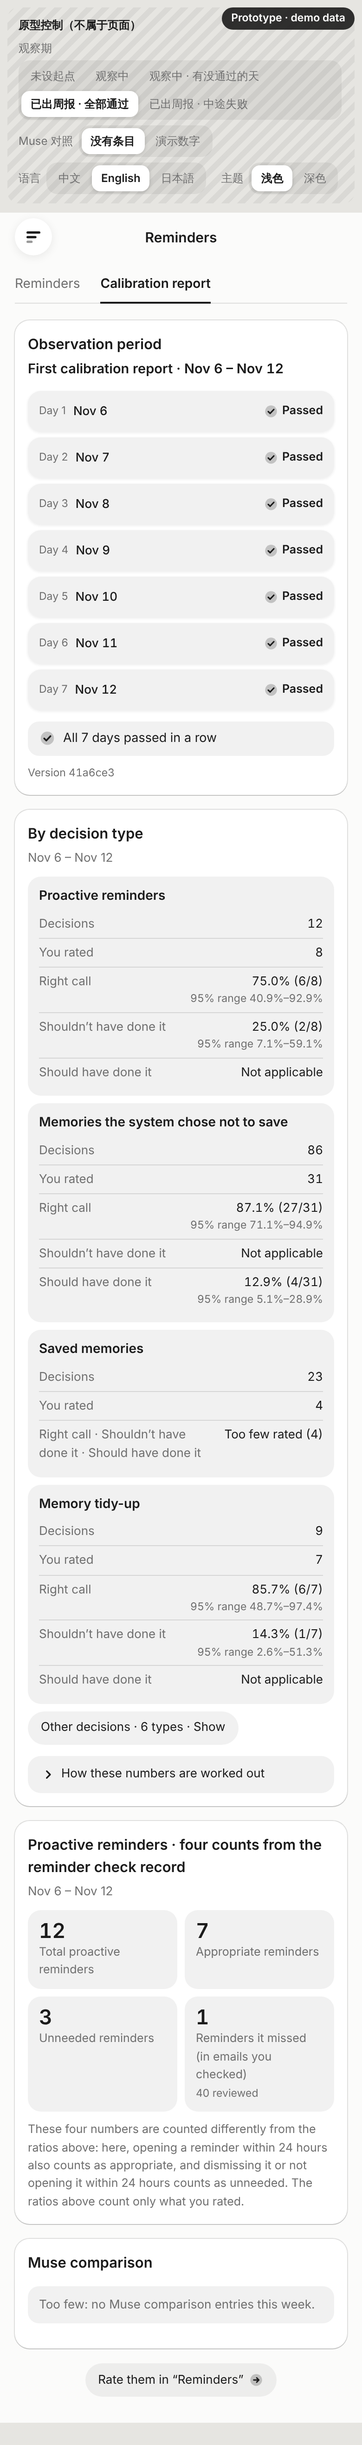
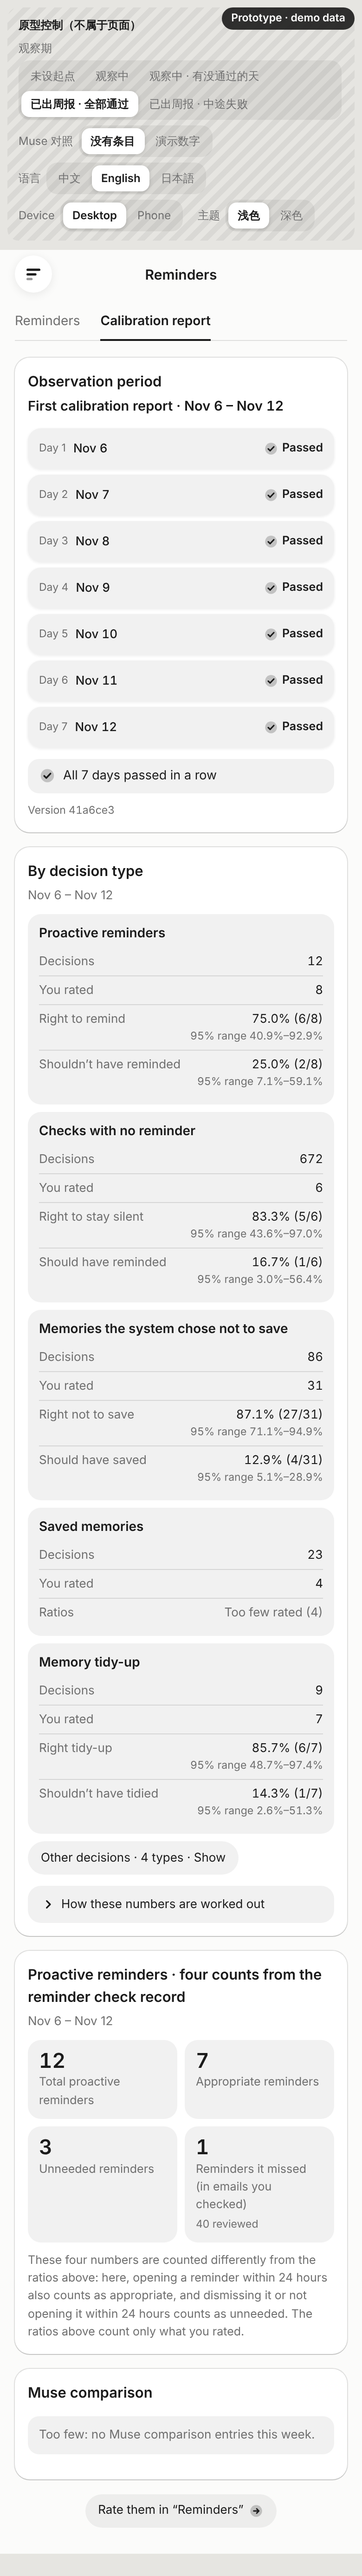
docs(design): 校准周报原型按行命名，加“电脑 / 手机”切换（待 Andy 批准）
原型 v17：每一行用自己的说法并拆出“这次检查没提醒”；其他判断只折叠 4 类决策记录里的类型；
原型控制条加“设备：电脑 / 手机”，手机模式在 390 宽的框里显示卡片布局和底部弹出面板，
不受浏览器窗口宽度影响。390 宽窗口 181 种组合、1280 宽窗口手机模式 150 种组合均无横向溢出；
SHA256SUMS 校验通过。只改原型目录，不含正式网页代码。

Layer-0-tests: none
Fast-mode-checks: 原型自带的 390 宽和手机模式溢出检查，云端容器，基于 c3f4cfd
Docs: deferred (fast mode)

Claude-Session: https://claude.ai/code/session_014uWGaJaVS6Gc3XFFyc94id

diff --git a/docs/assets/control-center/2026-11-03-v17/weekly-report-prototype.html b/docs/assets/control-center/2026-11-03-v17/weekly-report-prototype.html
@@ -90,8 +90,11 @@ td{padding:10px 8px;border-top:1px solid var(--ln);vertical-align:top;font-size:
 th:first-child,td:first-child{padding-left:0}
 td.num,th.num{text-align:right}
 td .iv{display:block;font-size:11.5px;color:var(--mu)}
-td.na{color:var(--mu)}
-td.few{color:var(--mu);text-align:center}
+td.few{color:var(--mu)}
+.rs{display:flex;flex-wrap:wrap;gap:6px 32px}
+.rs .r{min-width:0}
+.rl{color:var(--mu);margin-right:6px}
+td .iv{display:block;font-size:11.5px;color:var(--mu)}
 tr.sub td:first-child{padding-left:14px;color:var(--mu)}
 .otherrow td{padding:8px 0}
 .otherrow .lk{margin-top:2px}
@@ -150,6 +153,7 @@ tr.sub td:first-child{padding-left:14px;color:var(--mu)}
  .tc .m:first-of-type{border-top:0}
  .tc .m>span:first-child{color:var(--mu);min-width:0;flex:1}
  .tc .m>span:last-child{text-align:right;font-variant-numeric:tabular-nums;flex:none}
+ .tc .m.few>span:last-child{color:var(--mu)}
  .tc .m .iv{display:block;font-size:11.5px;color:var(--mu);white-space:nowrap}
  .tc.sub{margin-left:0}
  .stats{grid-template-columns:repeat(2,minmax(0,1fr))}
@@ -160,13 +164,52 @@ tr.sub td:first-child{padding-left:14px;color:var(--mu)}
  .dlg .br{flex-direction:column-reverse}
  .dlg .br button{width:100%}
 }
+#dev.phone{width:410px;max-width:100%;height:864px;margin:0 auto;border:10px solid #0d0d0d;border-radius:48px;position:relative;overflow:hidden;background:var(--bg);box-shadow:0 16px 40px rgba(0,0,0,.22)}
+#dev.phone .screen{height:100%;overflow-y:auto;overflow-x:hidden;scrollbar-width:none;padding-top:10px}
+#dev.phone .screen::-webkit-scrollbar{display:none}
+#dev.phone .scrim,#dev.phone .sheet,#dev.phone .dlg{position:absolute}
+#dev.phone .sheet{max-height:calc(100% - 60px);padding-bottom:18px}
+#dev.phone .dlg{padding-bottom:18px}
+#dev.phone .frame{border-radius:0;box-shadow:none;min-height:0;display:block}
+#dev.phone .side{display:none}
+#dev.phone .main{padding:0 16px 28px}
+#dev.phone .top{display:flex;align-items:center;justify-content:space-between;position:relative;padding:6px 0}
+#dev.phone .rb{width:40px;height:40px;min-height:0;padding:0;border-radius:50%;background:var(--card);display:grid;place-items:center;box-shadow:0 2px 10px rgba(0,0,0,.08)}
+#dev.phone .rb.ghost{visibility:hidden}
+#dev.phone .ttl{position:absolute;left:50%;transform:translateX(-50%);font-size:15px;font-weight:600;white-space:nowrap}
+#dev.phone h1{display:none}
+#dev.phone .tabs{margin-top:6px}
+#dev.phone .card{padding:14px 14px;border-radius:16px}
+#dev.phone .days{grid-template-columns:1fr;gap:6px}
+#dev.phone .cell{flex-direction:row;align-items:center;gap:8px;padding:0 12px;min-height:44px;width:100%}
+#dev.phone .cell .dn{flex:none;white-space:nowrap}
+#dev.phone .cell .dd{flex:1;min-width:0;white-space:nowrap}
+#dev.phone .cell .st{flex:none;max-width:50%;text-align:right}
+#dev.phone .detail{display:none}
+#dev.phone table{display:none}
+#dev.phone .tcards{display:block}
+#dev.phone .tc{background:var(--fill);border-radius:14px;padding:10px 12px;margin:0 0 8px}
+#dev.phone .tc h3{font-size:14px;margin:0 0 4px;font-weight:600}
+#dev.phone .tc .m{display:flex;justify-content:space-between;align-items:flex-start;gap:12px;padding:5px 0;border-top:1px solid var(--ln);font-size:13px}
+#dev.phone .tc .m:first-of-type{border-top:0}
+#dev.phone .tc .m>span:first-child{color:var(--mu);min-width:0;flex:1}
+#dev.phone .tc .m>span:last-child{text-align:right;font-variant-numeric:tabular-nums;flex:none}
+#dev.phone .tc .m.few>span:last-child{color:var(--mu)}
+#dev.phone .tc .m .iv{display:block;font-size:11.5px;color:var(--mu);white-space:nowrap}
+#dev.phone .tc.sub{margin-left:0}
+#dev.phone .stats{grid-template-columns:repeat(2,minmax(0,1fr))}
+#dev.phone .muse{grid-template-columns:repeat(2,minmax(0,1fr))}
+#dev.phone .stepper output{min-width:8.5em;font-size:16px}
+#dev.phone .dlg{left:0;right:0;top:auto;bottom:0;transform:none;width:auto;border-radius:26px 26px 0 0;padding:10px 16px calc(18px + env(safe-area-inset-bottom,0px))}
+#dev.phone .dlg .grab{display:block}
+#dev.phone .dlg .br{flex-direction:column-reverse}
+#dev.phone .dlg .br button{width:100%}
 </style>
 </head>
 <body>
 <div class="banner" id="banner">原型 · 演示数据</div>
 <div class="proto" id="proto"></div>
-<div class="frame" id="frame"></div>
-<div id="overlay"></div>
+<div id="dev"><div class="screen" id="screen"><div class="frame" id="frame"></div></div><div id="overlay"></div></div>
 <script>
 const G={
 check:'<svg class="ic" viewBox="0 0 24 24" aria-hidden="true"><circle cx="12" cy="12" r="9.5" fill="currentColor" opacity=".22"/><path d="M7.5 12.3l3 3 6-6.3" fill="none" stroke="currentColor" stroke-width="2.4" stroke-linecap="round" stroke-linejoin="round"/></svg>',
@@ -221,13 +264,14 @@ zh:{
  scopeDone:(a,b)=>`${a} – ${b}`,scopeIn:s=>`${s}至今`,
  notFull:"观察期还没满 7 天，满了再算比例",
  notStarted:"设好数据起点、观察满 7 天后，这里按决策类型算比例。",
- cols:["决策类型","决策条数","你评过的条数","做对了的比例","不该做的比例","该做没做的比例"],
+ cols:["决策类型","决策条数","你评过的条数","比例"],
+ rl:{pushed:["提醒得对","不该提醒"],silent:["不提醒是对的","该提醒没提醒"],skippedMemory:["不存是对的","该存没存"],keptMemory:["存对了","不该存"],consolidation:["整理得对","不该整理"]},
  ratio:(p,k,n)=>`${p}（${k}/${n}）`,iv:(a,b)=>`区间 ${a}–${b}`,
- few:n=>`样本不足（${n} 条）`,na:"不适用",
+ few:n=>`样本不足（${n} 条）`,
  other:n=>`其他判断 · ${n} 类`,expand:"展开",collapse:"收起",
  how:"这些数字怎么算",
- howItems:["分母是你评过的条数。","比例只代表你评过的那部分，不代表全部决策。","评过的少于 5 条时不算比例，写“样本不足”。","区间是 95% Wilson 区间：按你评过的条数算出的范围，真实比例有 95% 的把握落在里面；评得越多，区间越窄。","某类决策没有这个选项时写“不适用”，例如系统主动提醒只能评“做对了”或“不该做”。"],
- types:{pushed:"系统主动提醒",skippedMemory:"系统没存下的记忆",keptMemory:"已存的记忆",consolidation:"整理记忆",mail:"没提醒的邮件",silent:"这次检查没提醒",pendingMemory:"待你确认的记忆",truncation:"回答时没带上的旧内容",degrade:"记忆搜索没生效",externalRead:"外部程序读取记忆"},
+ howItems:["分母是你评过的条数。","每一行只列这类决策可能出现的情况（例如没存下的记忆只会是“不存是对的”或“该存没存”）。","评过的少于 5 条时不算比例，写“样本不足”。","区间是 95% Wilson 区间：按你评过的条数算出的范围，真实比例有 95% 的把握落在里面；评得越多，区间越窄。"],
+ types:{pushed:"系统主动提醒",skippedMemory:"系统没存下的记忆",keptMemory:"已存的记忆",consolidation:"整理记忆",silent:"这次检查没提醒",pendingMemory:"待你确认的记忆",truncation:"回答时没带上的旧内容",degrade:"记忆搜索没生效",externalRead:"外部程序读取记忆"},
  statTitle:"系统主动提醒 · 提醒检查记录的四个统计",
  m:{spoke:"主动提醒总次数",hits:"恰当的提醒",misfires:"多余的提醒",missed:"漏提醒（你查过的邮件里）",reviewed:n=>`已审 ${n} 封`},
  statNote:"这四个数和上面的比例算法不同：这里把 24 小时内点开也算恰当、划掉或 24 小时没点开算多余；上面只算你打过分的。",
@@ -274,13 +318,14 @@ en:{
  scopeDone:(a,b)=>`${a} – ${b}`,scopeIn:s=>`${s} to today`,
  notFull:"The observation period hasn’t reached 7 days yet; ratios come after it does",
  notStarted:"Once the data start is set and 7 days are observed, ratios by decision type appear here.",
- cols:["Decision type","Decisions","You rated","Right call","Shouldn’t have done it","Should have done it"],
+ cols:["Decision type","Decisions","You rated","Ratios"],
+ rl:{pushed:["Right to remind","Shouldn’t have reminded"],silent:["Right to stay silent","Should have reminded"],skippedMemory:["Right not to save","Should have saved"],keptMemory:["Saved correctly","Shouldn’t have saved"],consolidation:["Right tidy-up","Shouldn’t have tidied"]},
  ratio:(p,k,n)=>`${p} (${k}/${n})`,iv:(a,b)=>`95% range ${a}–${b}`,
- few:n=>`Too few rated (${n})`,na:"Not applicable",
+ few:n=>`Too few rated (${n})`,
  other:n=>`Other decisions · ${n} types`,expand:"Show",collapse:"Hide",
  how:"How these numbers are worked out",
- howItems:["The denominator is the number you rated.","The ratios describe only what you rated, not all decisions.","With fewer than 5 rated, no ratio is shown; it says “Too few rated”.","The range is a 95% Wilson interval: worked out from how many you rated, the true ratio falls inside it with 95% confidence. The more you rate, the narrower it gets.","“Not applicable” means that decision type has no such option; for example, proactive reminders can only be rated “Right call” or “Shouldn’t have done it”."],
- types:{pushed:"Proactive reminders",skippedMemory:"Memories the system chose not to save",keptMemory:"Saved memories",consolidation:"Memory tidy-up",mail:"Emails with no reminder",silent:"Checks with no reminder",pendingMemory:"Memories awaiting your confirmation",truncation:"Older content left out of an answer",degrade:"Memory search did not work",externalRead:"Memory read by an outside program"},
+ howItems:["The denominator is the number you rated.","Each row lists only the outcomes possible for that kind of decision (for example, a memory the system chose not to save can only be “Right not to save” or “Should have saved”).","With fewer than 5 rated, no ratio is shown; it says “Too few rated”.","The range is a 95% Wilson interval: worked out from how many you rated, the true ratio falls inside it with 95% confidence. The more you rate, the narrower it gets."],
+ types:{pushed:"Proactive reminders",skippedMemory:"Memories the system chose not to save",keptMemory:"Saved memories",consolidation:"Memory tidy-up",silent:"Checks with no reminder",pendingMemory:"Memories awaiting your confirmation",truncation:"Older content left out of an answer",degrade:"Memory search did not work",externalRead:"Memory read by an outside program"},
  statTitle:"Proactive reminders · four counts from the reminder check record",
  m:{spoke:"Total proactive reminders",hits:"Appropriate reminders",misfires:"Unneeded reminders",missed:"Reminders it missed (in emails you checked)",reviewed:n=>`${n} reviewed`},
  statNote:"These four numbers are counted differently from the ratios above: here, opening a reminder within 24 hours also counts as appropriate, and dismissing it or not opening it within 24 hours counts as unneeded. The ratios above count only what you rated.",
@@ -327,13 +372,14 @@ ja:{
  scopeDone:(a,b)=>`${a} – ${b}`,scopeIn:s=>`${s}から今日まで`,
  notFull:"観察期間がまだ 7 日に達していません。達したら割合を出します",
  notStarted:"データの起点を決めて 7 日間観察すると、ここに判断の種類ごとの割合が出ます。",
- cols:["判断の種類","判断の件数","採点した件数","正しかった割合","やるべきではなかった割合","やるべきだった割合"],
+ cols:["判断の種類","判断の件数","採点した件数","割合"],
+ rl:{pushed:["通知は正しかった","通知すべきではなかった"],silent:["通知しないのが正しかった","通知すべきだった"],skippedMemory:["保存しないのが正しかった","保存すべきだった"],keptMemory:["正しく保存した","保存すべきではなかった"],consolidation:["整理は正しかった","整理すべきではなかった"]},
  ratio:(p,k,n)=>`${p}（${k}/${n}）`,iv:(a,b)=>`区間 ${a}–${b}`,
- few:n=>`件数不足（${n} 件）`,na:"対象外",
+ few:n=>`件数不足（${n} 件）`,
  other:n=>`その他の判断 · ${n} 種類`,expand:"開く",collapse:"閉じる",
  how:"この数字の出し方",
- howItems:["分母は採点した件数です。","割合は採点した分だけを表し、すべての判断を表すものではありません。","採点が 5 件未満のときは割合を出さず「件数不足」と書きます。","区間は 95% Wilson 区間です。採点した件数から出した範囲で、本当の割合は 95% の確かさでこの中に入ります。採点が多いほど狭くなります。","その種類の判断にその選択肢がないときは「対象外」と書きます。例：自発的なリマインダーは「正しかった」か「やるべきではなかった」だけです。"],
- types:{pushed:"自発的なリマインダー",skippedMemory:"システムが保存しないと判断した記憶",keptMemory:"保存した記憶",consolidation:"記憶の整理",mail:"通知しなかったメール",silent:"リマインドしなかった確認",pendingMemory:"確認待ちの記憶",truncation:"回答に入れなかった古い内容",degrade:"記憶検索が働かなかった",externalRead:"外部プログラムによる記憶の読み取り"},
+ howItems:["分母は採点した件数です。","各行には、その種類の判断で起こりうる結果だけを載せます（例：システムが保存しないと判断した記憶は「保存しないのが正しかった」か「保存すべきだった」のどちらかだけ）。","採点が 5 件未満のときは割合を出さず「件数不足」と書きます。","区間は 95% Wilson 区間です。採点した件数から出した範囲で、本当の割合は 95% の確かさでこの中に入ります。採点が多いほど狭くなります。"],
+ types:{pushed:"自発的なリマインダー",skippedMemory:"システムが保存しないと判断した記憶",keptMemory:"保存した記憶",consolidation:"記憶の整理",silent:"通知しなかった確認",pendingMemory:"確認待ちの記憶",truncation:"回答に入れなかった古い内容",degrade:"記憶検索が働かなかった",externalRead:"外部プログラムによる記憶の読み取り"},
  statTitle:"自発的なリマインダー · リマインダー確認の記録の 4 つの集計",
  m:{spoke:"自発的なリマインダーの総数",hits:"適切なリマインダー",misfires:"余計なリマインダー",missed:"見逃し（確認したメールの中）",reviewed:n=>`${n} 通確認`},
  statNote:"この 4 つの数は上の割合と数え方が違います。ここでは 24 時間以内に開いたものも適切、閉じたものや 24 時間開かなかったものは余計と数えます。上の割合は採点したものだけです。",
@@ -345,7 +391,7 @@ ja:{
  goRate:"「リマインダー」で採点する"
 }};
 const LOC={zh:"zh-CN",en:"en",ja:"ja"};
-const ST={state:"b1",muse:"none",lang:"zh",theme:"light",tab:"report",openDay:null,otherOpen:false,howOpen:false,confirm:false,pick:6,start:6};
+const ST={device:"desktop",state:"b1",muse:"none",lang:"zh",theme:"light",tab:"report",openDay:null,otherOpen:false,howOpen:false,confirm:false,pick:6,start:6};
 const T=()=>L[ST.lang];
 const day=n=>new Date(2026,10,n);
 function fd(n){const d=day(n);if(ST.lang==="zh")return `${d.getMonth()+1} 月 ${d.getDate()} 日`;return new Intl.DateTimeFormat(LOC[ST.lang],{month:ST.lang==="en"?"short":"numeric",day:"numeric"}).format(d)}
@@ -363,11 +409,12 @@ const DAYS={
  c1:{start:6,today:13,cells:[["pass",PASS],["pass",PASS2],["pass",PASS],["pass",PASS2],["pass",PASS],["pass",PASS2],["pass",PASS]]},
  c2:{start:6,today:13,cells:[["pass",PASS],["pass",PASS2],["fail",FAIL],["pass",PASS],["pass",PASS2],["pass",PASS],["pass",PASS2]]}
 };
-const MAIN=["pushed","skippedMemory","keptMemory","consolidation"];
-const OTHER=["mail","silent","pendingMemory","truncation","degrade","externalRead"];
+const MAIN=["pushed","silent","skippedMemory","keptMemory","consolidation"];
+const OTHER=["pendingMemory","truncation","degrade","externalRead"];
+const LBL={pushed:"pushed",silent:"silent",skippedMemory:"skippedMemory",keptMemory:"keptMemory",consolidation:"consolidation"};
 const TD={
- done:{pushed:[12,8,6,2,null],skippedMemory:[86,31,27,null,4],keptMemory:[23,4,4,0,null],consolidation:[9,7,6,1,null],mail:[214,40,39,null,1],silent:[672,3,3,null,0],pendingMemory:[3,2,2,0,null],truncation:[17,0,0,null,0],degrade:[1,1,1,null,0],externalRead:[0,0,0,0,null]},
- part:{pushed:[5,3],skippedMemory:[38,12],keptMemory:[9,1],consolidation:[4,3],mail:[96,15],silent:[288,1],pendingMemory:[1,1],truncation:[6,0],degrade:[0,0],externalRead:[0,0]}
+ done:{pushed:[12,8,[6,2]],silent:[672,6,[5,1]],skippedMemory:[86,31,[27,4]],keptMemory:[23,4,[4,0]],consolidation:[9,7,[6,1]],pendingMemory:[3,2,[2,0]],truncation:[17,0,[0,0]],degrade:[1,1,[1,0]],externalRead:[0,0,[0,0]]},
+ part:{pushed:[5,3],silent:[288,1],skippedMemory:[38,12],keptMemory:[9,1],consolidation:[4,3],pendingMemory:[1,1],truncation:[6,0],degrade:[0,0],externalRead:[0,0]}
 };
 const STATS={done:[12,7,3,1,40],part:[5,3,1,0,15],none:[9,5,2,1,22]};
 const MUSE={both:5,museOnly:1,himaOnly:2,neither:31,noRec:1,unpaired:2};
@@ -378,6 +425,7 @@ function renderProto(){
  <span class="grp"><span>观察期</span>${s("state",[["a","未设起点"],["b1","观察中"],["b2","观察中 · 有没通过的天"],["c1","已出周报 · 全部通过"],["c2","已出周报 · 中途失败"]])}</span>
  <span class="grp"><span>Muse 对照</span>${s("muse",[["none","没有条目"],["demo","演示数字"]])}</span>
  <span class="grp"><span>语言</span>${s("lang",[["zh","中文"],["en","English"],["ja","日本語"]])}</span>
+ <span class="grp"><span>${{zh:"设备",en:"Device",ja:"端末"}[ST.lang]}</span>${s("device",[["desktop",{zh:"电脑",en:"Desktop",ja:"PC"}[ST.lang]],["phone",{zh:"手机",en:"Phone",ja:"スマホ"}[ST.lang]]])}</span>
  <span class="grp"><span>主题</span>${s("theme",[["light","浅色"],["dark","深色"]])}</span></div>`;
 }
 function side(){const t=T();return `<nav class="side" aria-label="nav"><div class="brand"><span class="dot"></span>Himawari</div><div class="ni">${G.newc}${t.navNew}</div><div class="ni">${G.mem}${t.navMem}</div><div class="ni sel" aria-current="page">${G.rem}${t.navRem}</div><div class="ni">${G.file}${t.navFile}</div><div class="grow"></div><div class="ni">${G.set}${t.navSet}</div></nav>`}
@@ -406,25 +454,22 @@ function obsCard(){
  }
  h+=`<p class="ver">${t.version("41a6ce3")}</p></section>`;return h;
 }
-function ratioCells(r){const t=T();const [,rev,ok,bad,miss]=r;if(rev<5)return {few:t.few(rev)};return {vals:[ok,bad,miss].map(k=>{if(k===null)return null;const [lo,hi]=wilson(k,rev);return {main:t.ratio(pct(k/rev),k,rev),iv:t.iv(pct(lo),pct(hi))}})}}
+function ratioCells(x,r){const t=T();const [,rev,ks]=r;if(rev<5)return {few:t.few(rev)};const labels=t.rl[LBL[x]];return {vals:ks.map((k,i)=>{const [lo,hi]=wilson(k,rev);return {label:labels[i],main:t.ratio(pct(k/rev),k,rev),iv:t.iv(pct(lo),pct(hi))}})}}
 function tableCard(){
  const t=T(),k=stateInfo().kind,nf=n=>new Intl.NumberFormat(LOC[ST.lang]).format(n);
  let h=`<section class="card"><h2>${t.typeTitle}</h2>`;
  if(k==="none"||k==="wait"){h+=`<p class="empty">${t.notStarted}</p></section>`;return h}
  const d=DAYS[ST.state];
+ const rows=MAIN.map(x=>[x,0]).concat(ST.otherOpen?OTHER.map(x=>[x,1]):[]);
  if(k==="part"){
   h+=`<p class="sub">${t.scopeIn(fd(d.start))}</p><p class="empty">${t.notFull}</p>`;
-  const rows=MAIN.map(x=>[x,0]).concat(ST.otherOpen?OTHER.map(x=>[x,1]):[]);
   h+=`<table><thead><tr><th>${t.cols[0]}</th><th class="num">${t.cols[1]}</th><th class="num">${t.cols[2]}</th></tr></thead><tbody>${rows.map(([x,sub])=>`<tr class="${sub?"sub":""}"><td>${t.types[x]}</td><td class="num">${nf(TD.part[x][0])}</td><td class="num">${nf(TD.part[x][1])}</td></tr>`).join("")}<tr class="otherrow"><td colspan="3">${otherBtn()}</td></tr></tbody></table>`;
   h+=`<div class="tcards">${rows.map(([x])=>`<div class="tc"><h3>${t.types[x]}</h3><div class="m"><span>${t.cols[1]}</span><span>${nf(TD.part[x][0])}</span></div><div class="m"><span>${t.cols[2]}</span><span>${nf(TD.part[x][1])}</span></div></div>`).join("")}${otherBtn()}</div>`;
   h+=howBlock()+`</section>`;return h;
  }
  h+=`<p class="sub">${t.scopeDone(fd(d.start),fd(d.start+6))}</p>`;
- const rows=MAIN.map(x=>[x,0]).concat(ST.otherOpen?OTHER.map(x=>[x,1]):[]);
- const cellTd=v=>v===null?`<td class="num na">${t.na}</td>`:`<td class="num">${v.main}<span class="iv">${v.iv}</span></td>`;
- h+=`<table><thead><tr>${t.cols.map((c,i)=>`<th class="${i?"num":""}">${c}</th>`).join("")}</tr></thead><tbody>${rows.map(([x,sub])=>{const r=TD.done[x],rc=ratioCells(r);return `<tr class="${sub?"sub":""}"><td>${t.types[x]}</td><td class="num">${nf(r[0])}</td><td class="num">${nf(r[1])}</td>${rc.few?`<td colspan="3" class="few">${rc.few}</td>`:rc.vals.map(cellTd).join("")}</tr>`}).join("")}<tr class="otherrow"><td colspan="6">${otherBtn()}</td></tr></tbody></table>`;
- const cm=v=>v===null?`<span class="na">${t.na}</span>`:`<span>${v.main}<span class="iv">${v.iv}</span></span>`;
- h+=`<div class="tcards">${rows.map(([x])=>{const r=TD.done[x],rc=ratioCells(r);return `<div class="tc"><h3>${t.types[x]}</h3><div class="m"><span>${t.cols[1]}</span><span>${nf(r[0])}</span></div><div class="m"><span>${t.cols[2]}</span><span>${nf(r[1])}</span></div>${rc.few?`<div class="m"><span>${t.cols[3]} · ${t.cols[4]} · ${t.cols[5]}</span><span>${rc.few}</span></div>`:rc.vals.map((v,i)=>`<div class="m"><span>${t.cols[3+i]}</span>${cm(v)}</div>`).join("")}</div>`}).join("")}${otherBtn()}</div>`;
+ h+=`<table><thead><tr><th>${t.cols[0]}</th><th class="num">${t.cols[1]}</th><th class="num">${t.cols[2]}</th><th>${t.cols[3]}</th></tr></thead><tbody>${rows.map(([x,sub])=>{const r=TD.done[x],rc=ratioCells(x,r);return `<tr class="${sub?"sub":""}"><td>${t.types[x]}</td><td class="num">${nf(r[0])}</td><td class="num">${nf(r[1])}</td>${rc.few?`<td class="few">${rc.few}</td>`:`<td><div class="rs">${rc.vals.map(v=>`<div class="r"><span class="rl">${v.label}</span>${v.main}<span class="iv">${v.iv}</span></div>`).join("")}</div></td>`}</tr>`}).join("")}<tr class="otherrow"><td colspan="4">${otherBtn()}</td></tr></tbody></table>`;
+ h+=`<div class="tcards">${rows.map(([x])=>{const r=TD.done[x],rc=ratioCells(x,r);return `<div class="tc"><h3>${t.types[x]}</h3><div class="m"><span>${t.cols[1]}</span><span>${nf(r[0])}</span></div><div class="m"><span>${t.cols[2]}</span><span>${nf(r[1])}</span></div>${rc.few?`<div class="m few"><span>${t.cols[3]}</span><span>${rc.few}</span></div>`:rc.vals.map(v=>`<div class="m"><span>${v.label}</span><span>${v.main}<span class="iv">${v.iv}</span></span></div>`).join("")}</div>`}).join("")}${otherBtn()}</div>`;
  h+=howBlock()+`</section>`;return h;
 }
 function otherBtn(){const t=T();return `<button type="button" class="lk" data-act="other" aria-expanded="${ST.otherOpen}">${t.other(OTHER.length)} · ${ST.otherOpen?t.collapse:t.expand}</button>`}
@@ -443,9 +488,9 @@ function museCard(){
  h+=`<div class="musefoot"><span>${t.mu.unpaired} <b>${nf(m.unpaired)}</b></span><span>${t.mu.rate} <b>${t.ratio(pct(paired/total),paired,total)}</b></span></div><p class="note">${t.museDef}</p></section>`;
  return h;
 }
-function isPhone(){return window.matchMedia("(max-width:640px)").matches}
+function isPhone(){return ST.device==="phone"||window.matchMedia("(max-width:640px)").matches}
 function renderFrame(){
- const t=T();document.documentElement.lang=LOC[ST.lang];document.documentElement.dataset.theme=ST.theme;
+ const t=T();document.getElementById("dev").className=ST.device==="phone"?"phone":"";document.documentElement.lang=LOC[ST.lang];document.documentElement.dataset.theme=ST.theme;
  document.getElementById("banner").textContent=t.banner;
  let body;
  if(ST.tab==="rem")body=`<p class="stub">${t.stub}</p>`;
@@ -471,13 +516,13 @@ document.addEventListener("click",e=>{
  if(act==="ok"){ST.confirm=false;ST.start=ST.pick;ST.state="b0"}
  if(act==="closeDay")ST.openDay=null;
  if(act==="other")ST.otherOpen=!ST.otherOpen;
- if(act==="goRem"){ST.tab="rem";window.scrollTo(0,0)}
+ if(act==="goRem"){ST.tab="rem";window.scrollTo(0,0);document.getElementById("screen").scrollTop=0}
  render();
 });
 document.addEventListener("toggle",e=>{if(e.target.classList&&e.target.classList.contains("how"))ST.howOpen=e.target.open},true);
 document.addEventListener("keydown",e=>{if(e.key==="Escape"&&(ST.confirm||ST.openDay!==null)){ST.confirm=false;ST.openDay=null;render()}});
 window.matchMedia("(max-width:640px)").addEventListener("change",()=>renderFrame());
-const q=new URLSearchParams(location.search);["state","muse","lang","theme","tab"].forEach(k=>{if(q.get(k))ST[k]=q.get(k)});if(q.get("day"))ST.openDay=+q.get("day");if(q.get("other"))ST.otherOpen=true;if(q.get("how"))ST.howOpen=true;if(q.get("confirm"))ST.confirm=true;
+const q=new URLSearchParams(location.search);["device","state","muse","lang","theme","tab"].forEach(k=>{if(q.get(k))ST[k]=q.get(k)});if(q.get("day"))ST.openDay=+q.get("day");if(q.get("other"))ST.otherOpen=true;if(q.get("how"))ST.howOpen=true;if(q.get("confirm"))ST.confirm=true;
 render();
 </script>
 </body>
